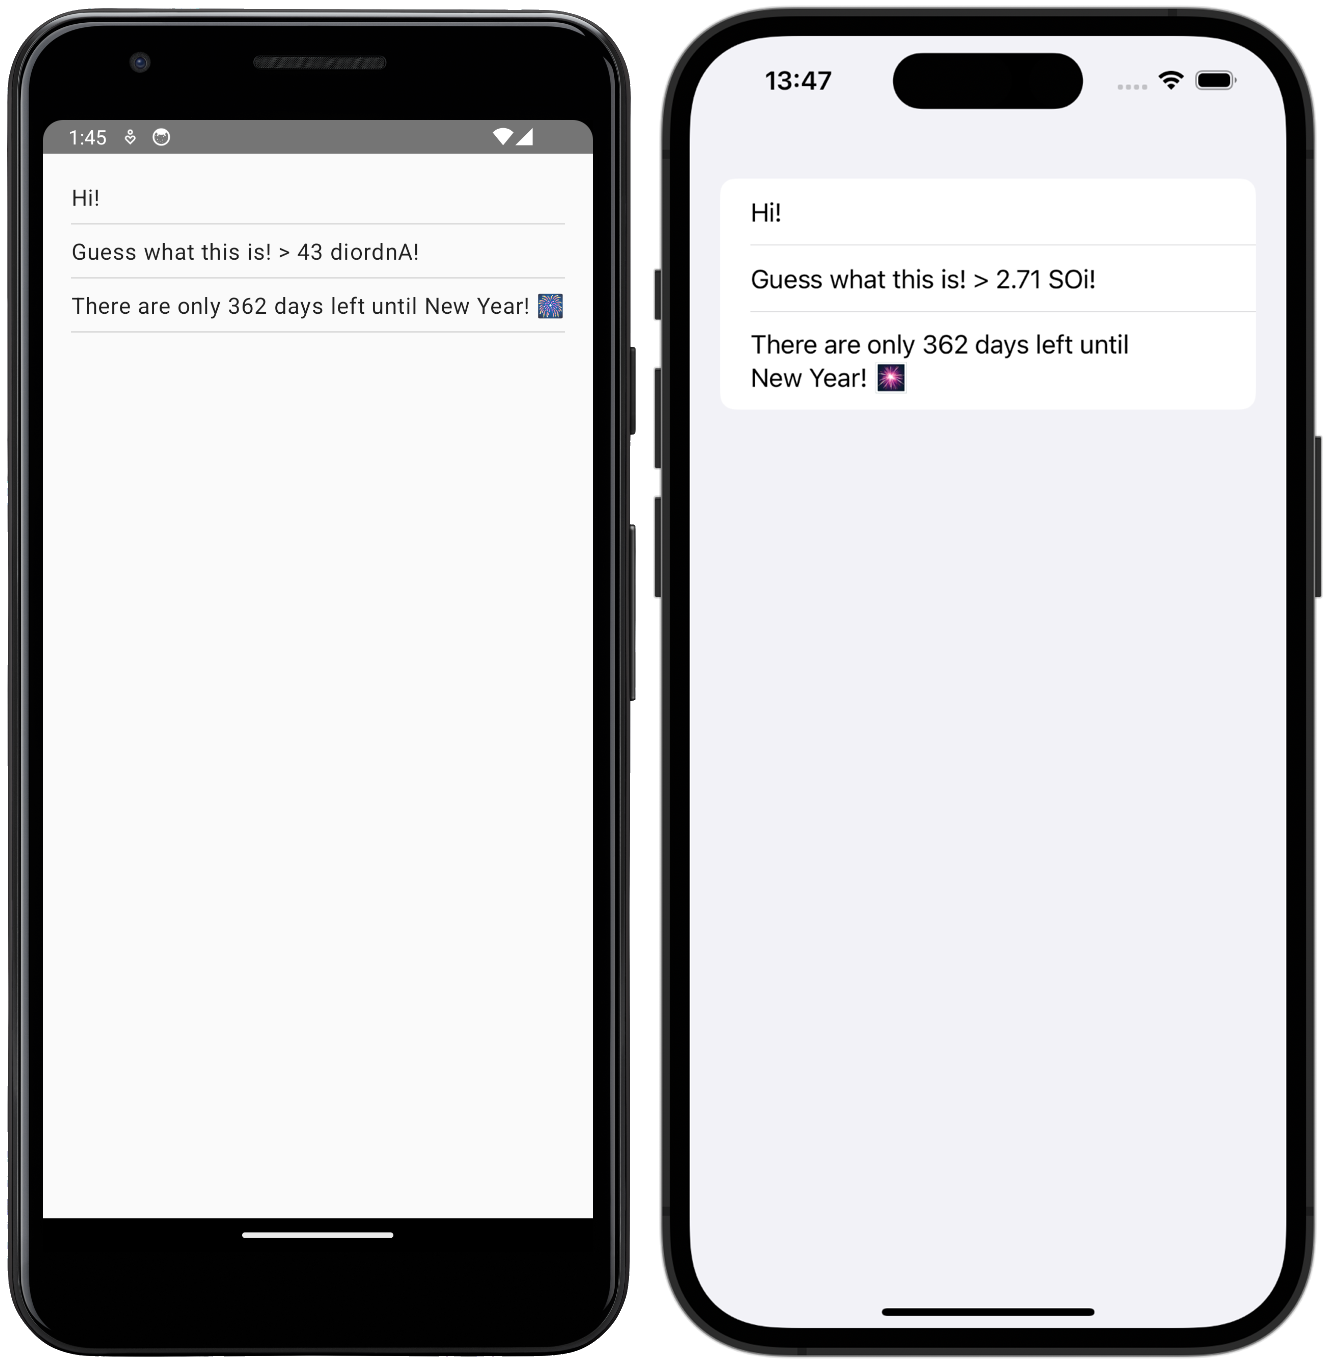
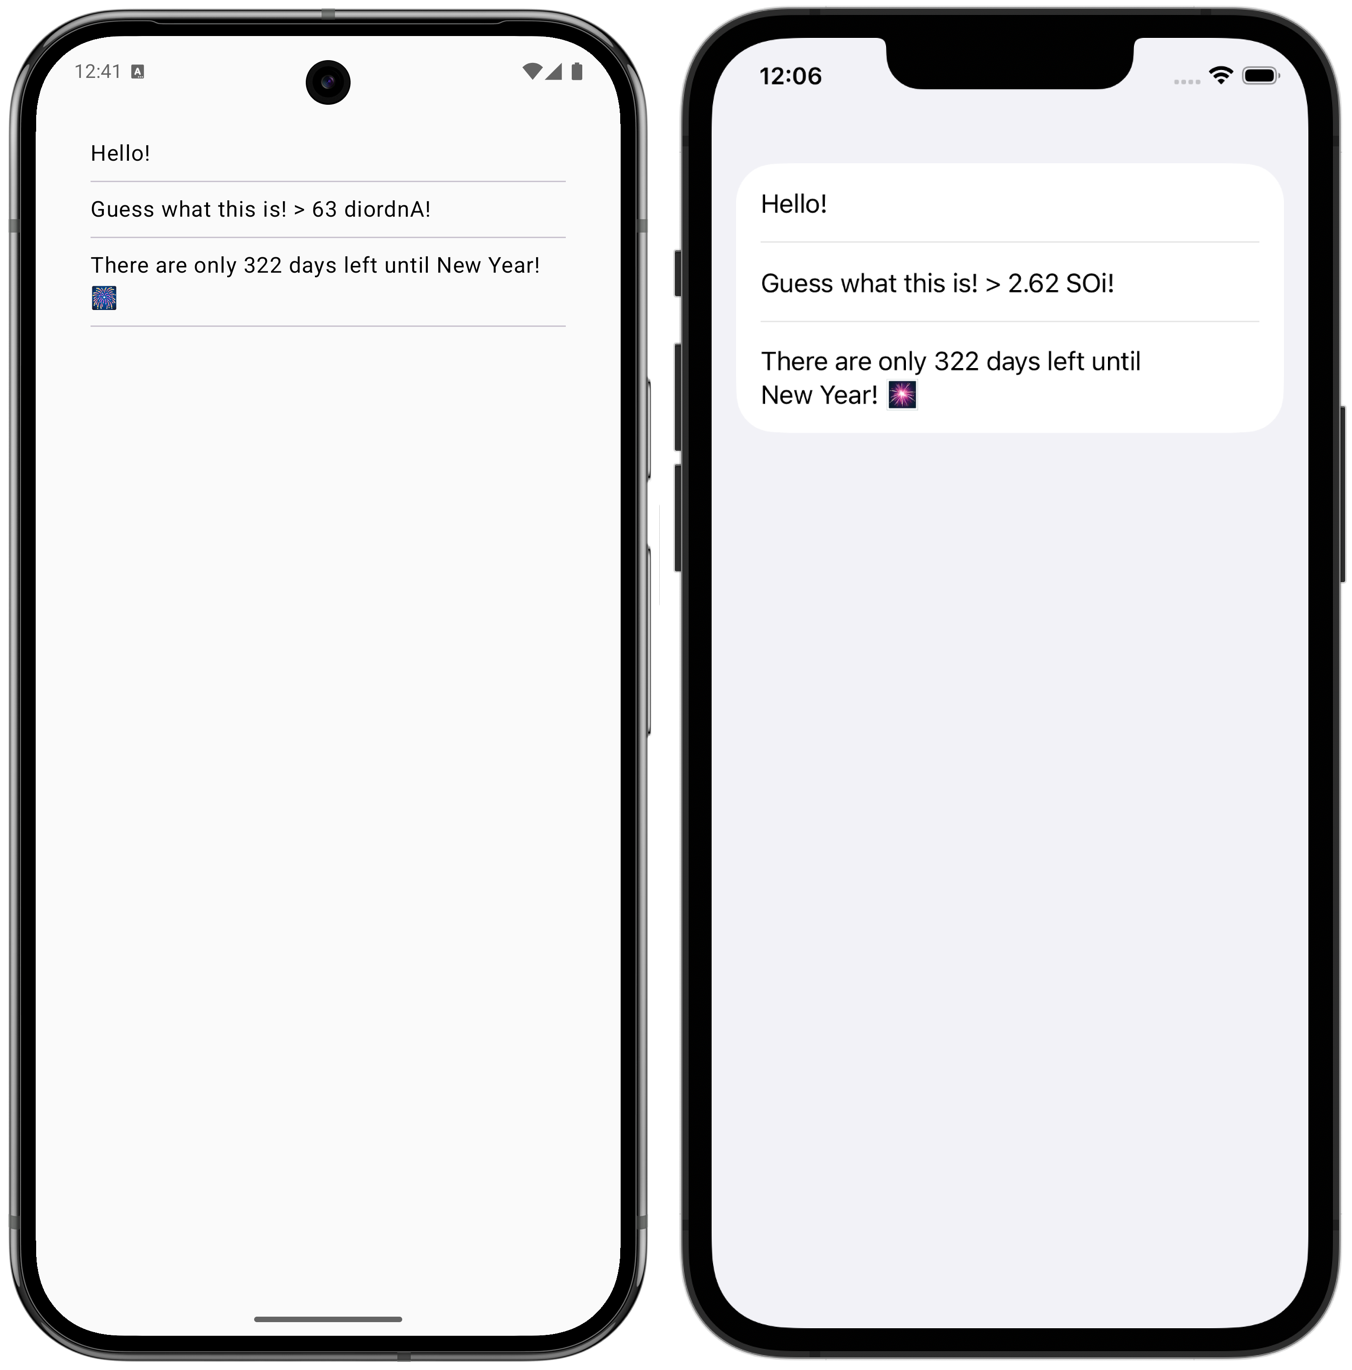
update: dependencies step from the native UI tutorial

Changed region(s): [[0.0, 0.0, 1.0, 1.0], [0.5549, 0.2463, 0.8632, 0.3079], [0.5549, 0.1232, 0.8323, 0.2155]]

diff --git a/topics/multiplatform-onboard/multiplatform-dependencies.md b/topics/multiplatform-onboard/multiplatform-dependencies.md
@@ -15,8 +15,8 @@
     </p>
 </tldr>
 
-You've already created your first cross-platform Kotlin Multiplatform project! Now let's learn how to add dependencies
-to third-party libraries, which is necessary for building successful cross-platform applications.
+You've created and tweaked your first Kotlin Multiplatform project!
+Now let's learn how to add dependencies to third-party libraries, which is necessary for building successful cross-platform applications.
 
 ## Dependency types
 
@@ -26,14 +26,16 @@ There are two types of dependencies that you can use in Kotlin Multiplatform pro
   common source set, `commonMain`.
 
   Many modern Android libraries already have multiplatform support, like [Koin](https://insert-koin.io/),
-  [Apollo](https://www.apollographql.com/), and [Okio](https://square.github.io/okio/). Find more multiplatform libraries on [klibs.io](https://klibs.io/),
-  an experimental search service from JetBrains for discovering Kotlin Multiplatform libraries.
+  [Coil](https://coil-kt.github.io/coil/), and [SQLDelight](https://sqldelight.github.io/sqldelight/latest/).
+  Find more multiplatform libraries on [klibs.io](https://klibs.io/),
+  a search service offered by JetBrains for discovering Kotlin Multiplatform libraries.
 
-* _Native dependencies_. These are regular libraries from relevant ecosystems. In native projects you usually work with them
-  using Gradle for Android and using CocoaPods or another dependency manager for iOS. 
+* _Native dependencies_. These are regular libraries from specific ecosystems.
+  In native projects you usually work with them, for example, using Gradle for Android and Swift Package Manager for iOS. 
   
-  When you work with a shared module, typically, you still need native dependencies when you want to use platform APIs
-  such as security storage. You can add native dependencies to the native source sets, `androidMain` and `iosMain`.
+  When you work with a multiplatform project module, typically, you still need native dependencies to use platform APIs
+  such as security storage, specific system calls, and so on.
+  In the build script, you specify native dependencies in the configuration of native source sets, for example, `androidMain` and `iosMain`.
 
 For both types of dependencies, you can use local and external repositories.
 
@@ -44,17 +46,20 @@ For both types of dependencies, you can use local and external repositories.
 >
 {style="tip"}
 
-Let's go back to the app and make the greeting a little more festive. In addition to the device information, add a
-function to display the number of days left until New Year's Day. The `kotlinx-datetime` library, which has full
-multiplatform support, is the most convenient way to work with dates in your shared code.
+Let's go back to the app and make the greeting a little more festive:
+In addition to the OS version, add a function to display the number of days left until New Year's Day.
+The `kotlinx-datetime` library, which has full multiplatform support, is the most convenient way to work with dates in your shared code.
 
-1. Open the `build.gradle.kts` file located in the `shared` directory.
+1. Open the `build.gradle.kts` file located in the `sharedLogic` directory.
 2. Add the following dependency and the Kotlin time opt-in to the `commonMain` source set dependencies:
 
     ```kotlin
     kotlin {
         //... 
         sourceSets {
+            // Opt-in necessary to use experimental kotlin.time APIs
+            // from the standard Kotlin library,
+            // distinct from the kotlinx-datetime library.
             all { languageSettings.optIn("kotlin.time.ExperimentalTime") }
    
             commonMain.dependencies {
@@ -66,9 +71,9 @@ multiplatform support, is the most convenient way to work with dates in your sha
 
 3. Select the **Build | Sync Project with Gradle Files** menu item
    or click the **Sync Gradle Changes** button in the build script editor to synchronize Gradle files: ![Synchronize Gradle files](gradle-sync.png){width=50}
-4. Right-click the `shared/src/commonMain/.../greetingkmp` directory and select **New | Kotlin Class/File** to create a new file, `NewYear.kt`.
-5. Update the file with a short function that calculates
-   the number of days from today until the New Year using the `datetime` date arithmetic:
+4. Right-click the `sharedLogic/src/commonMain/.../greeting` directory and select **New | Kotlin Class/File** to create a new file, `NewYear.kt`.
+5. In that file, add two functions that calculate
+   the number of days from today until the start of next year using the `datetime` date arithmetic and form the phrase to be displayed:
    
    ```kotlin
    @OptIn(ExperimentalTime::class)
@@ -95,7 +100,7 @@ multiplatform support, is the most convenient way to work with dates in your sha
     }
     ```
 
-8. To see the results, re-run your **composeApp** and **iosApp** configurations from IntelliJ IDEA:
+8. To see the results, re-run your **androidApp** and **iosApp** run configurations from IntelliJ IDEA:
 
 ![Updated mobile multiplatform app with external dependencies](first-multiplatform-project-3.png){width=500}
 
